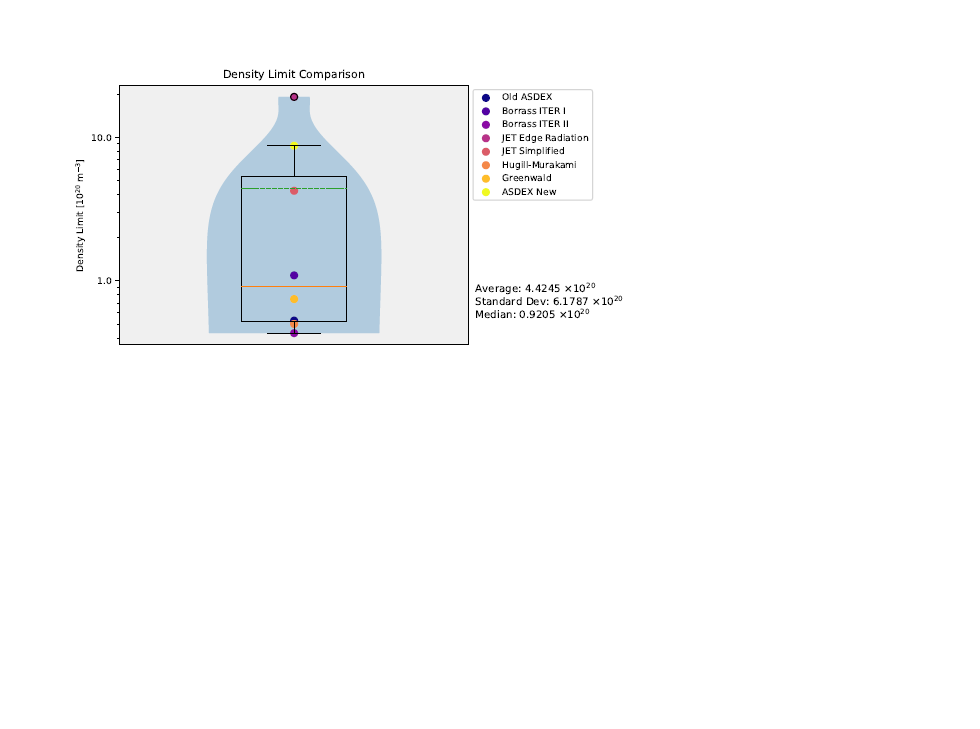
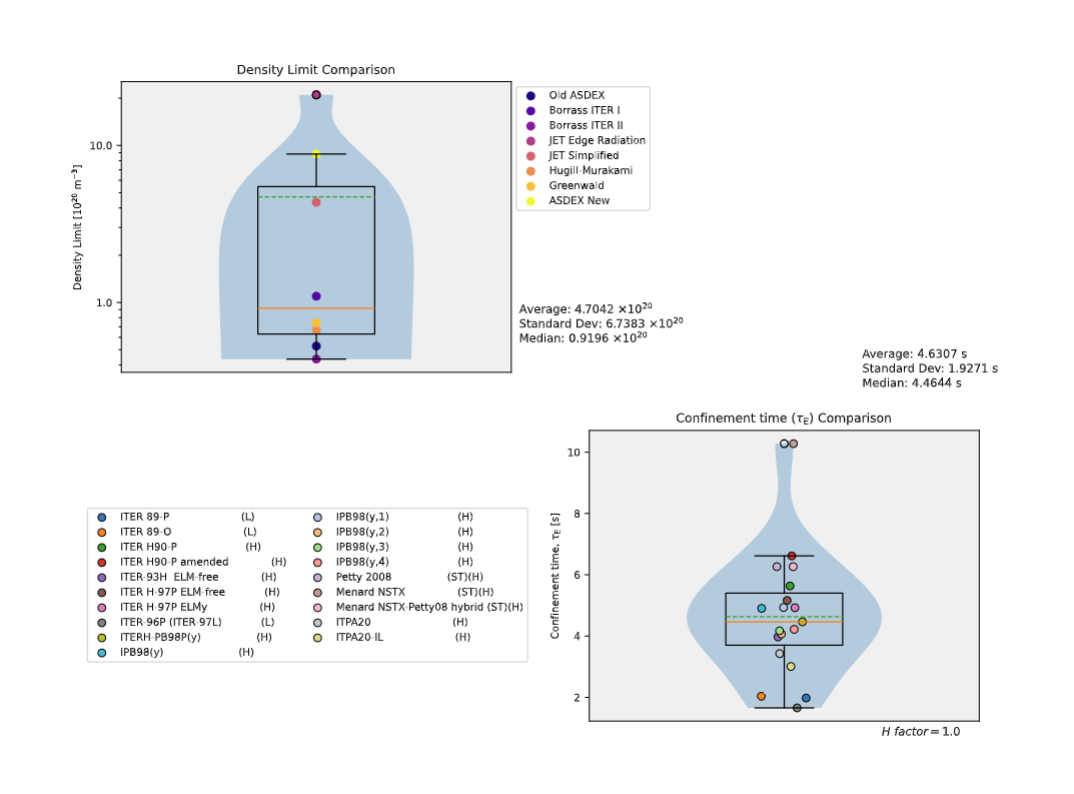
:memo: Update figure caption for density limit comparison page to include confinement time

diff --git a/process/io/plot_proc.py b/process/io/plot_proc.py
@@ -4555,7 +4555,7 @@ def plot_confinement_time_comparison(
             edgecolor="black",
             linewidth=0.7,
         )
-    axis.legend(loc="upper left", bbox_to_anchor=(-1.5, 1.1), ncol=2)
+    axis.legend(loc="upper left", bbox_to_anchor=(-1.3, 0.75), ncol=2)
 
     # Calculate average, standard deviation, and median
     data_values = list(data.values())
@@ -5436,8 +5436,8 @@ def main_plot(
     plot_21 = fig8.add_subplot(221)
     plot_density_limit_comparison(plot_21, m_file_data, scan)
 
-    plot_205 = fig7.add_subplot(224)
-    plot_confinement_time_comparison(plot_205, m_file_data, scan)
+    plot_215 = fig8.add_subplot(224)
+    plot_confinement_time_comparison(plot_215, m_file_data, scan)
 
     plot_22 = fig9.add_subplot(111)
     plot_current_profiles_over_time(plot_22, m_file_data, scan)

diff --git a/documentation/proc-pages/usage/plotting.md b/documentation/proc-pages/usage/plotting.md
@@ -57,7 +57,7 @@ process -i path/to/IN.DAT --plot --mfile path/to/MFILE.DAT
 
 <figure markdown>
 ![plot_proc_8](../images/plot_proc_8.PNG){ width="100%"}
-<figcaption>Figure 8: plot_proc density limit comparison page  </figcaption>
+<figcaption>Figure 8: plot_proc density limit and confinement time comparison page  </figcaption>
 </figure>
 
 <figure markdown>
